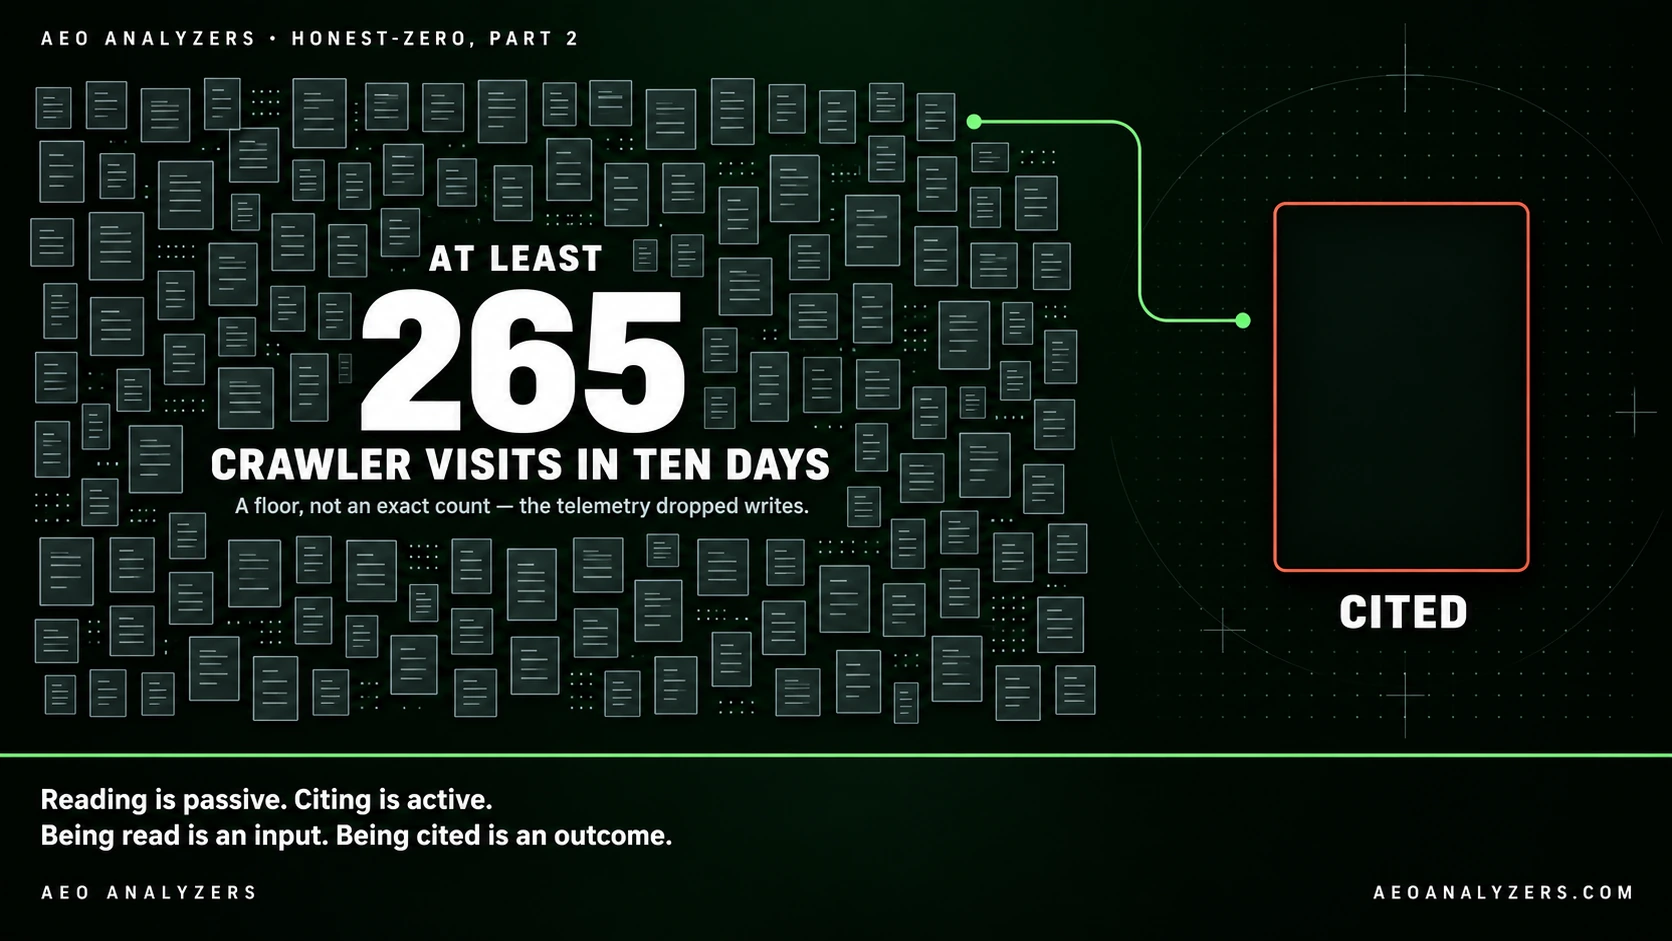
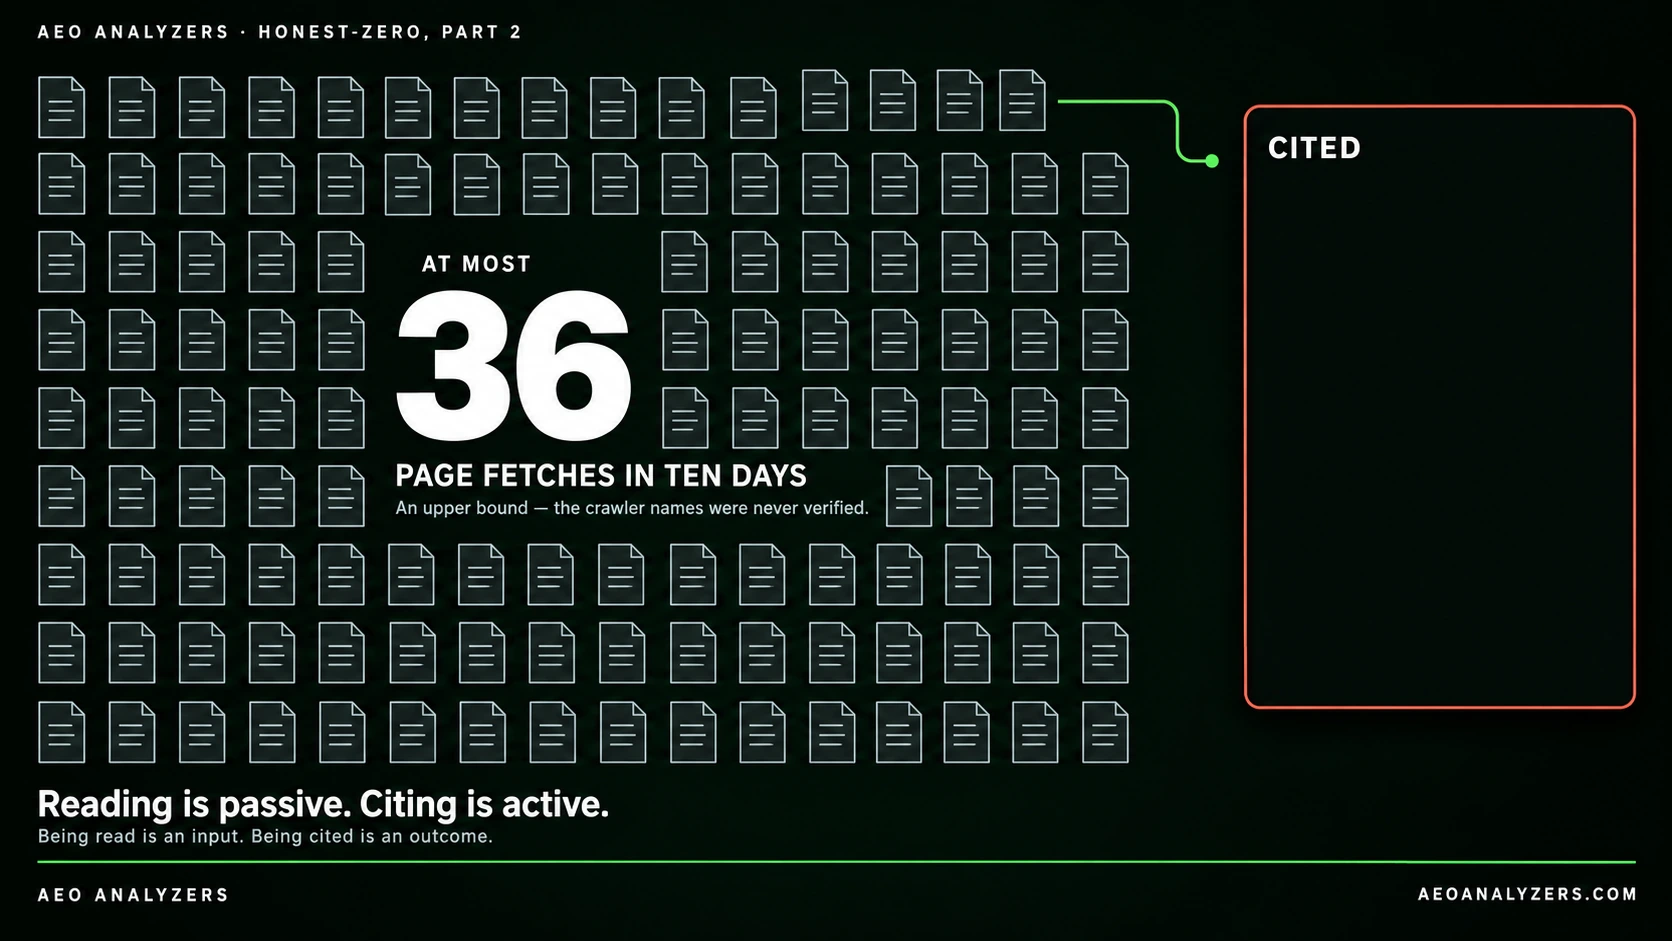
Part 2 gets its hero back, at 36
Regenerated from prompt 3 after the retitle: AT MOST 36, page fetches in ten
days, the upper-bound caveat in the artwork itself, one empty CITED card, no
log lines, no crawler names, no other numeral. Placed under "Being read is an
input" as before, so the tiles carry the receipts and the picture carries the
argument. The caption says why the figure was once 265.

Claude-Session: https://claude.ai/code/session_01M4Z6V3c3eMgko9FCs2dnki

diff --git a/public/blog/reading-isnt-citing/index.html b/public/blog/reading-isnt-citing/index.html
@@ -188,6 +188,16 @@ ol.layers .lose{color:var(--gap);font-weight:700}
       <p>I had spent years improving the first. More pages, more prose, more depth — all of it dutifully read, none of it cited. Volume was never the constraint. I could have tripled my word count and moved the number by nothing, because the engines already held more of my words than they could use. What they didn't have was a reason to reach for me when it counted.</p>
     </div>
 
+    <figure class="postfig">
+      <img src="/blog/reading-isnt-citing/hero-reading-isnt-citing-1672x941.webp" width="1672" height="941"
+           loading="lazy" decoding="async"
+           alt="Title card for Honest-Zero Part 2. A dense field of small grey page glyphs fills most of the frame, captioned AT MOST 36 page fetches in ten days, an upper bound because the crawler names were never verified. A single green line leaves the field and stops short of one empty red-outlined card on the right labelled CITED. Below: reading is passive, citing is active; being read is an input, being cited is an outcome.">
+      <figcaption>Everything on the left was read. The one card on the right stayed empty. The count is
+      an upper bound &mdash; our log trusted the name each crawler gave, and most of what it logged
+      turned out to be scanners using those names, which is why this figure was once published as 265.</figcaption>
+    </figure>
+
+
 
 
     <h2 class="posth2">Why the reading didn't convert</h2>
